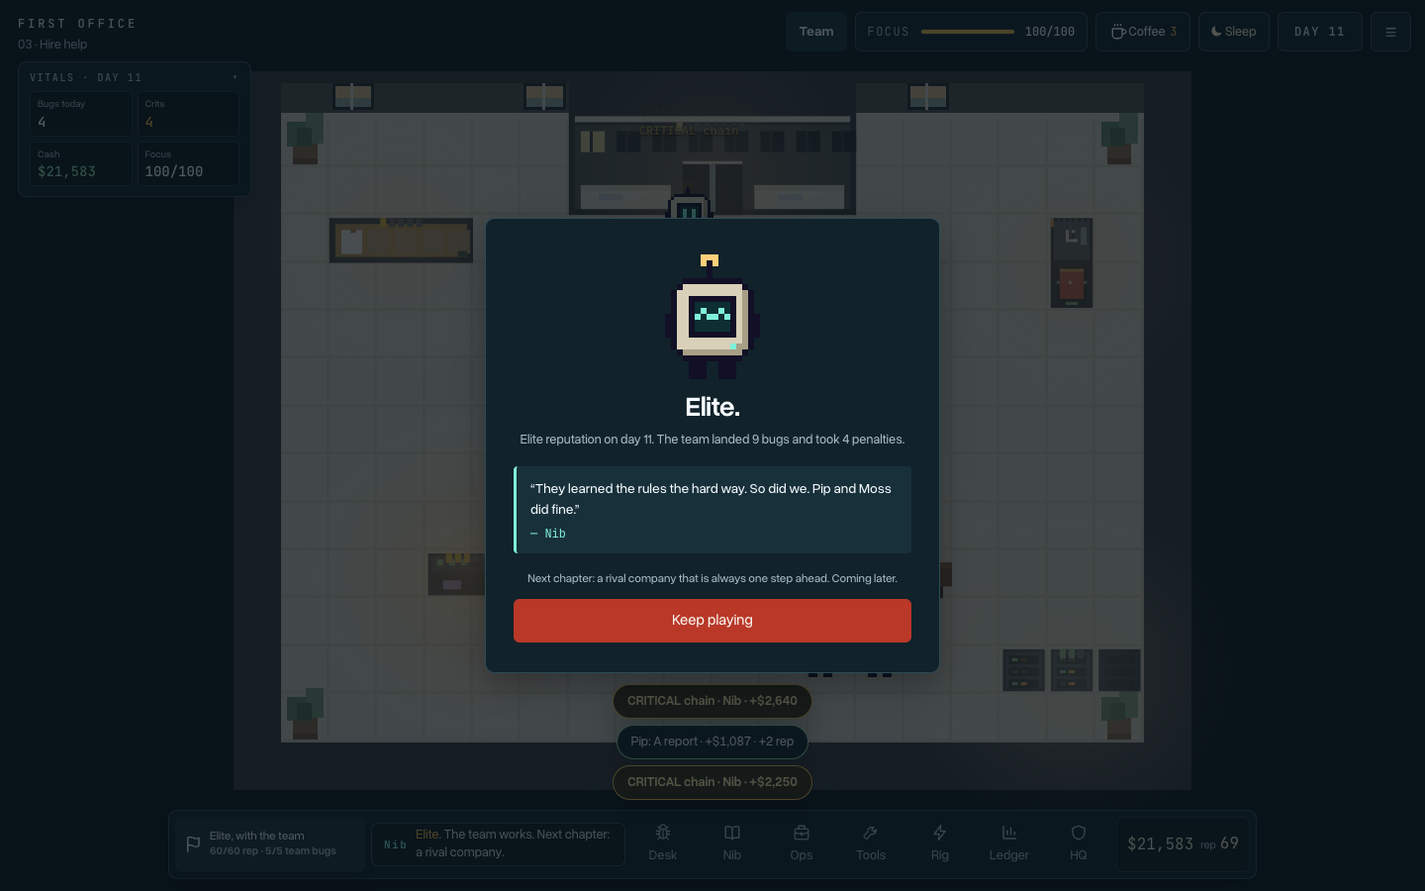
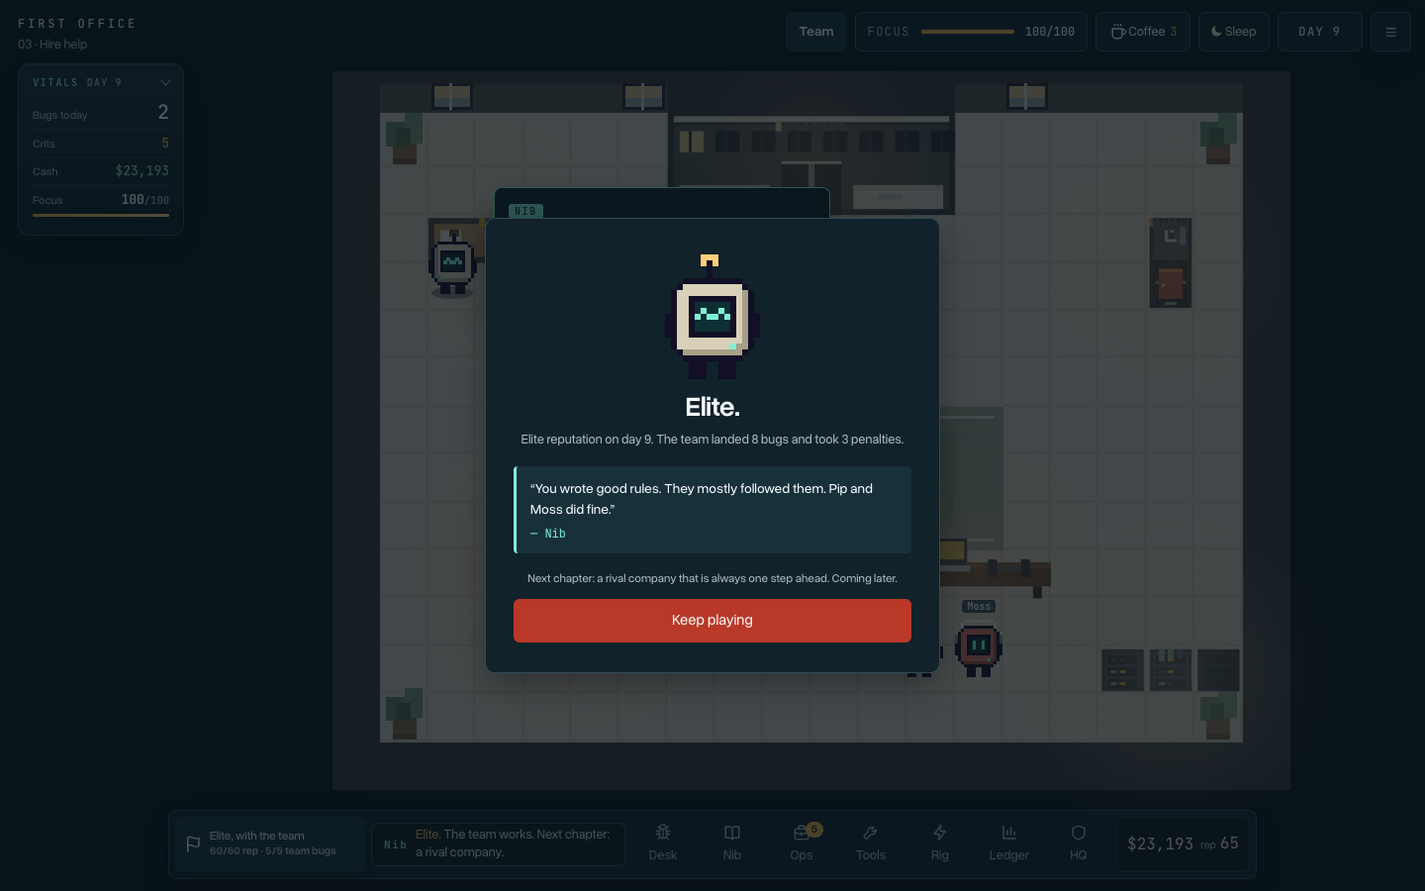
- game.js: vitals box rebuilt as a slim label/value list (no nested cards); built once and updated in place - game.js: numbers count up and glow when they rise; detail pane rebuilt only when its data changes - game.js: room keeps a left margin for the box on screens 900px+ (vitalsGutter); open box w

diff --git a/game.js b/game.js
@@ -64,10 +64,10 @@
   function syncWorld() { world.update({ started: true, paused: false, won: s.won, speed: 1, movementSpeed: 1, compute: s.gpu }, null, false, blocked(), worldView()); }
   function layout() {
     const dock = document.querySelector('.dock-shell').getBoundingClientRect(), hud = document.querySelector('.hud').getBoundingClientRect();
-    world.setInsets(punchIns({ top: Math.max(64, hud.bottom + 8), bottom: innerHeight - dock.top + 12, hud: { left: hud.left, bottom: hud.bottom + 8 } })); // #13: scaled while the office punches in
+    world.setInsets(punchIns({ top: Math.max(64, hud.bottom + 8), bottom: innerHeight - dock.top + 12, left: vitalsGutter(), hud: { left: hud.left, bottom: hud.bottom + 8 } })); // #13: scaled while the office punches in
     document.documentElement.style.setProperty('--dock-top', Math.round(innerHeight - dock.top) + 'px');
     world.setTouch(matchMedia('(pointer: coarse)').matches || innerWidth < 650);
-    requestAnimationFrame(placeLamps); // #12: the room moved; its lamps follow once world.js has refit it
+    requestAnimationFrame(() => { placeLamps(); fitVitals(); }); // #12: the room moved; its lamps (and the vitals box) follow once world.js has refit it
   }
 
   // Nib docks to an open window, and stays docked while it shrinks away. Out of sight (a window over the office, or Team),
@@ -461,7 +461,7 @@
   // world.js turns its insets (CSS px) into canvas px by the canvas's on-screen width, so a zoomed canvas would refit the
   // room inside it. The insets scale with the zoom instead: punchK is the scale world.js sees on its next draw.
   let punchFx = null, punchK = 1, punchBase = null, lastPay = null;
-  function punchIns(v) { punchBase = v; const k = punchK; return k === 1 ? v : { top: v.top * k, bottom: v.bottom * k, hud: v.hud && { left: v.hud.left * k, bottom: v.hud.bottom * k } }; }
+  function punchIns(v) { punchBase = v; const k = punchK; return k === 1 ? v : { top: v.top * k, bottom: v.bottom * k, left: (v.left || 0) * k, hud: v.hud && { left: v.hud.left * k, bottom: v.hud.bottom * k } }; }
   function punchFor(r, station, who, key) {
     lastPay = { station, who, t: performance.now() };
     if (!r.won && (r.crit || station === 'hq')) punch(station, who, key, true); // HQ only pays chains: always critical. The goal punches in goal().
@@ -739,47 +739,84 @@
       <ul class="shoplist">${tiers}</ul>`;
   }
   // ---------- vitals box ----------
-  // A small box under the chapter title: today's numbers, cash and focus. A click opens lifetime totals and charts.
-  // "Today" is the current game day, measured against the snapshot engine.sleep() saves at the end of each day.
+  // A slim list under the chapter title: bugs today, crits, cash and focus. A click (or V) opens today's and lifetime
+  // totals and per-day charts. "Today" is the current game day, measured against the snapshot engine.sleep() saves.
+  // The room keeps a margin clear for the box (layout → vitalsGutter); on screens too narrow for that it overlaps.
+  const VIT = { w: 168, left: 18, gap: 14, openW: 340 };
+  const vitalsGutter = () => s.seen.job && innerWidth >= 900 ? VIT.left + VIT.w + VIT.gap : 0;
   function dayRows() {
-    const rows = (s.days || []).slice(), now = { day: s.day, bugs: s.bugs, crits: s.crits, cash: s.cash, rep: s.rep, earned: s.stats.earned };
-    rows.push(now);
-    // A save from before snapshots existed has no baseline for its early days; start the charts where the data starts.
+    const rows = (s.days || []).slice();
+    rows.push({ day: s.day, bugs: s.bugs, crits: s.crits, cash: s.cash, rep: s.rep, earned: s.stats.earned });
+    // A save from before snapshots existed has no baseline for its early days; the charts start where the data starts.
     return rows.map((r, i) => { const p = i ? rows[i - 1] : r.day === 1 ? { bugs: 0, crits: 0, earned: 0 } : null; return { ...r, newBugs: p ? r.bugs - p.bugs : null, newCrits: p ? r.crits - p.crits : null, made: p ? r.earned - p.earned : null }; });
   }
+  // Numbers count to their new value (450 ms, ease-out) and glow briefly when they go up.
+  function countTo(el, v, fmt) {
+    if (v == null) { el.textContent = '—'; el._v = null; return; }
+    const from = el._v; el._v = v;
+    if (from == null || from === v || reduced || document.hidden) { el.textContent = fmt(v); return; }
+    if (v > from) { el.classList.remove('up'); void el.offsetWidth; el.classList.add('up'); }
+    const t0 = performance.now(), step = now => {
+      if (el._v !== v) return; // retargeted
+      const k = Math.min(1, (now - t0) / 450), e = 1 - Math.pow(1 - k, 3);
+      el.textContent = fmt(Math.round(from + (v - from) * e)); if (k < 1) requestAnimationFrame(step);
+    };
+    requestAnimationFrame(step);
+  }
   function bars(rows, key, label) {
-    const pts = rows.filter(r => r[key] != null).slice(-14), max = Math.max(1, ...pts.map(r => r[key])), W = 280, H = 70, bw = W / Math.max(pts.length, 7);
-    const b = pts.map((r, i) => { const h = Math.max(r[key] ? 3 : 1, r[key] / max * (H - 16)); return `<rect x="${i * bw + 2}" y="${H - 12 - h}" width="${bw - 4}" height="${h}" rx="1.5" class="${r.day === s.day ? 'now' : ''}"><title>Day ${r.day}: ${r[key]}</title></rect><text x="${i * bw + bw / 2}" y="${H - 1}">${r.day}</text>`; }).join('');
-    return `<figure class="vchart"><figcaption>${label} <span>max ${max}</span></figcaption><svg viewBox="0 0 ${W} ${H}" role="img" aria-label="${label}">${b}</svg></figure>`;
+    const pts = rows.filter(r => r[key] != null).slice(-14), max = Math.max(1, ...pts.map(r => r[key])), W = 300, H = 74, n = Math.max(pts.length, 7), bw = W / n;
+    const b = pts.map((r, i) => { const h = Math.max(r[key] ? 3 : 1.5, r[key] / max * (H - 18)); return `<g style="--i:${i}"><rect x="${i * bw + 3}" y="${H - 13 - h}" width="${bw - 6}" height="${h}" rx="2" class="${r.day === s.day ? 'now' : ''}"><title>Day ${r.day}: ${r[key]}</title></rect><text x="${i * bw + bw / 2}" y="${H - 1}">${r.day}</text></g>`; }).join('');
+    return `<figure class="vchart"><figcaption>${label}<span>best ${max}</span></figcaption><svg viewBox="0 0 ${W} ${H}" role="img" aria-label="${label}">${b}</svg></figure>`;
   }
   function line(rows, key, label, fmt) {
-    const pts = rows.slice(-14), vals = pts.map(r => r[key]), max = Math.max(1, ...vals), W = 280, H = 70, x = i => pts.length > 1 ? 4 + i * (W - 8) / (pts.length - 1) : W / 2, y = v => H - 14 - v / max * (H - 22);
-    const d = pts.map((r, i) => (i ? 'L' : 'M') + x(i).toFixed(1) + ' ' + y(r[key]).toFixed(1)).join(' ');
-    const dots = pts.map((r, i) => `<circle cx="${x(i)}" cy="${y(r[key])}" r="${r.day === s.day ? 3 : 2}" class="${r.day === s.day ? 'now' : ''}"><title>Day ${r.day}: ${fmt(r[key])}</title></circle><text x="${x(i)}" y="${H - 1}">${r.day}</text>`).join('');
-    return `<figure class="vchart"><figcaption>${label} <span>${fmt(vals[vals.length - 1])}</span></figcaption><svg viewBox="0 0 ${W} ${H}" role="img" aria-label="${label}"><path d="${d}"/>${dots}</svg></figure>`;
+    const pts = rows.slice(-14), vals = pts.map(r => r[key]), max = Math.max(1, ...vals), W = 300, H = 74;
+    const x = i => pts.length > 1 ? 6 + i * (W - 12) / (pts.length - 1) : W / 2, y = v => H - 15 - v / max * (H - 24);
+    const xy = pts.map((r, i) => [x(i).toFixed(1), y(r[key]).toFixed(1)]), d = xy.map((p, i) => (i ? 'L' : 'M') + p.join(' ')).join(' ');
+    const area = xy.length > 1 ? `<path class="area" d="${d} L${xy[xy.length - 1][0]} ${H - 13} L${xy[0][0]} ${H - 13} Z"/>` : '';
+    const dots = pts.map((r, i) => `<circle cx="${xy[i][0]}" cy="${xy[i][1]}" r="${r.day === s.day ? 3.2 : 2}" class="${r.day === s.day ? 'now' : ''}" style="--i:${i}"><title>Day ${r.day}: ${fmt(r[key])}</title></circle><text x="${xy[i][0]}" y="${H - 1}">${r.day}</text>`).join('');
+    return `<figure class="vchart"><figcaption>${label}<span>${fmt(vals[vals.length - 1])}</span></figcaption><svg viewBox="0 0 ${W} ${H}" role="img" aria-label="${label}">${area}<path class="ln" pathLength="1" d="${d}"/>${dots}</svg></figure>`;
   }
   function vitals() {
-    const el = $('vitals'); el.hidden = !s.seen.job; if (el.hidden) return;
-    const rows = dayRows(), t = rows[rows.length - 1], open = el.classList.contains('open'), mf = E.maxFocus(s);
-    const cell = (k, v, cls) => `<div class="v ${cls || ''}"><span>${k}</span><b>${v}</b></div>`;
-    const today = `<div class="vgrid">${cell('Bugs today', t.newBugs ?? '—')}${cell('Crits', s.crits, s.crits ? 'crit' : '')}${cell('Cash', money(s.cash), 'cash')}${cell('Focus', s.focus + '/' + mf, s.focus < mf * 0.25 ? 'low' : '')}</div>`;
+    const el = $('vitals'), wasHidden = el.hidden; el.hidden = !s.seen.job; if (el.hidden) return;
+    if (wasHidden) layout(); // the room makes way for the box the first time it shows
+    if (!el.firstChild) {
+      el.innerHTML = `<header><span>Vitals</span><span class="vday"></span><i class="chev" aria-hidden="true"></i></header>
+        <dl class="vq"><div><dt>Bugs today</dt><dd data-k="today" class="big"></dd></div><div><dt>Crits</dt><dd data-k="crits"></dd></div>
+          <div><dt>Cash</dt><dd data-k="cash" class="cash"></dd></div><div class="vfocus"><dt>Focus</dt><dd><b data-k="focus"></b><small data-k="fmax"></small></dd><span class="vbar"><i></i></span></div></dl>
+        <div class="vx"><div class="vx-in"></div></div>`;
+    }
+    const rows = dayRows(), t = rows[rows.length - 1], open = el.classList.contains('open'), mf = E.maxFocus(s), q = k => el.querySelector(`[data-k="${k}"]`);
     el.setAttribute('aria-expanded', open);
-    if (!open) { el.innerHTML = `<header>Vitals · Day ${s.day}<i>▾</i></header>${today}`; return; }
-    const st = s.stats, tier = E.tier(s), sent = st.proven + st.raw;
-    el.innerHTML = `<header>Vitals · Day ${s.day}<i>▴</i></header>${today}
-      <h4>Today</h4><div class="vgrid">${cell('Earned', t.made == null ? '—' : money(t.made))}${cell('Crits today', t.newCrits ?? '—')}${cell('Coffee left', s.cups)}${cell('Rep · ' + tier.name, s.rep)}</div>
-      <h4>Lifetime</h4><div class="vgrid">${cell('Bugs', s.bugs)}${cell('Crits', s.crits, s.crits ? 'crit' : '')}${cell('Earned', money(st.earned), 'cash')}${cell('Days', s.day)}
-        ${cell('By you', st.manual)}${cell('By ' + esc(s.nib), st.nib)}${cell('By team', st.agent || 0)}${cell('False alarms', st.falseSubmits, st.falseSubmits ? 'low' : '')}</div>
-      ${sent ? `<p class="vnote">${st.proven} proven before sending, ${st.raw} sent raw.</p>` : ''}
-      ${bars(rows, 'newBugs', 'Bugs per day')}${line(rows, 'cash', 'Cash at end of day', money)}${line(rows, 'rep', 'Reputation', String)}`;
+    el.querySelector('.vday').textContent = 'Day ' + s.day;
+    countTo(q('today'), t.newBugs, String); countTo(q('crits'), s.crits, String); countTo(q('cash'), s.cash, money); countTo(q('focus'), s.focus, String);
+    q('fmax').textContent = '/' + mf; q('crits').classList.toggle('crit', s.crits > 0);
+    el.querySelector('.vfocus').classList.toggle('low', s.focus < mf * 0.25); el.querySelector('.vbar i').style.width = Math.round(s.focus / mf * 100) + '%';
+    fitVitals();
+    // The detail pane is rebuilt only when its numbers change, so its entrance animations don't replay on every render().
+    const st = s.stats, tier = E.tier(s), key = open && JSON.stringify([rows, st, s.cups, s.nib]);
+    const inner = el.querySelector('.vx-in'); if (!open || inner.dataset.key === key) return; inner.dataset.key = key;
+    const row = (k, v, cls) => `<div><dt>${k}</dt><dd class="${cls || ''}">${v}</dd></div>`;
+    inner.innerHTML = `<section style="--i:0"><h4>Today</h4><dl>${row('Earned', t.made == null ? '—' : money(t.made), 'cash')}${row('Crits', t.newCrits ?? '—')}${row('Coffee left', s.cups)}${row('Reputation', s.rep + ' <small>' + esc(tier.name) + '</small>')}</dl></section>
+      <section style="--i:1"><h4>Lifetime</h4><dl>${row('Bugs', s.bugs)}${row('Crits', s.crits, s.crits ? 'crit' : '')}${row('Earned', money(st.earned), 'cash')}${row('Days', s.day)}
+        ${row('By you', st.manual)}${row('By ' + esc(s.nib), st.nib)}${row('By team', st.agent || 0)}${row('False alarms', st.falseSubmits, st.falseSubmits ? 'bad' : '')}</dl>
+        ${st.proven + st.raw ? `<p class="vnote">${st.proven} proven before sending · ${st.raw} sent raw</p>` : ''}</section>
+      <section style="--i:2">${bars(rows, 'newBugs', 'Bugs per day')}</section><section style="--i:3">${line(rows, 'cash', 'Cash, end of day', money)}</section><section style="--i:4">${line(rows, 'rep', 'Reputation', String)}</section>`;
+  }
+  // Closed, the box sits in the margin the room keeps for it. Open, it widens into the margin if that's wide enough,
+  // otherwise it floats over the room's edge until closed.
+  function fitVitals() {
+    const el = $('vitals'); if (el.hidden) return;
+    const avail = world.roomRect().left - document.querySelector('.playfield').getBoundingClientRect().left - VIT.left - VIT.gap;
+    const open = el.classList.contains('open'), w = open ? Math.max(VIT.openW, Math.min(400, Math.floor(avail))) : VIT.w;
+    el.classList.toggle('over', w > avail); el.style.setProperty('--vw', w + 'px');
   }
   function toggleVitals(force) {
     const el = $('vitals'); if (el.hidden) return;
     el.classList.toggle('open', force ?? !el.classList.contains('open')); vitals();
   }
-  $('vitals').addEventListener('click', () => toggleVitals());
+  $('vitals').addEventListener('click', e => { if (!$('vitals').classList.contains('open') || e.target.closest('header')) toggleVitals(); });
   $('vitals').addEventListener('keydown', e => { if (e.key === 'Enter' || e.key === ' ') { e.preventDefault(); toggleVitals(); } else if (e.key === 'Escape') { toggleVitals(false); $('world').focus({ preventScroll: true }); } });
-  document.addEventListener('pointerdown', e => { if (!e.target.closest('#vitals')) $('vitals').classList.contains('open') && toggleVitals(false); });
+  document.addEventListener('pointerdown', e => { if (!e.target.closest('#vitals') && $('vitals').classList.contains('open')) toggleVitals(false); });
 
   function ledgerView() {
     const tier = E.tier(s), next = E.nextTier(s);

diff --git a/style.css b/style.css
@@ -405,26 +405,65 @@ body:has(#panel-dialog[open]) .playfield::after{content:"";position:absolute;ins
 #panel-dialog .hq .opts,#panel-dialog .chain .opts{grid-template-columns:1fr}
 @media (max-width:600px){#panel-dialog .sec .opts{grid-template-columns:1fr}}
 
-/* Vitals box: top left under the chapter title. Compact by default; a click opens lifetime totals and charts (game.js vitals). */
-.vitals{position:absolute;left:18px;top:62px;z-index:6;width:236px;padding:9px 11px 10px;background:var(--paper);border:1px solid var(--line-2);border-radius:8px;color:var(--ink-2);font-size:12px;cursor:pointer;box-shadow:0 6px 18px rgba(0,0,0,.25);transition:width .18s ease-out,border-color .15s}
-.vitals:hover,.vitals:focus-visible{border-color:var(--nib);outline:none}
-.vitals.open{width:min(400px,calc(100vw - 36px));max-height:calc(100% - 180px);overflow:auto;cursor:default}
-.vitals header{display:flex;justify-content:space-between;margin-bottom:7px;font:600 10px var(--mono);letter-spacing:.16em;text-transform:uppercase;color:var(--muted)}
-.vitals header i{font-style:normal;color:var(--nib)}
-.vitals h4{margin:12px 0 6px;font:600 10px var(--mono);letter-spacing:.16em;text-transform:uppercase;color:var(--muted)}
-.vgrid{display:grid;grid-template-columns:1fr 1fr;gap:5px}
-.vgrid .v{display:grid;gap:1px;padding:5px 7px;background:var(--ground);border:1px solid var(--line);border-radius:5px;min-width:0}
-.vgrid .v span{font-size:10px;color:var(--muted);white-space:nowrap;overflow:hidden;text-overflow:ellipsis}
-.vgrid .v b{font:500 14px var(--mono);color:var(--ink);white-space:nowrap}
-.vgrid .v.cash b{color:var(--good)}.vgrid .v.crit b{color:var(--amber)}.vgrid .v.low b{color:var(--danger-ink)}
-.vitals.open .vgrid{grid-template-columns:repeat(4,1fr);gap:4px}.vitals.open .vgrid .v{align-content:space-between}.vitals.open .vgrid .v span{white-space:normal;line-height:1.2}.vitals.open .vgrid .v b{font-size:13px}
+/* Vitals box (game.js vitals): a slim list in the margin the room keeps clear on the left. No cards inside the card:
+   rows are label/value pairs on hairlines. Open, it grows (grid-rows 0fr → 1fr), its sections rise in one by one,
+   bars grow and lines draw. Numbers count up and glow when they rise. */
+.vitals{position:absolute;left:18px;top:64px;z-index:6;width:var(--vw,168px);padding:12px 14px 13px;box-sizing:border-box;
+  background:linear-gradient(180deg,rgba(24,48,58,.92),rgba(14,30,38,.92));border:1px solid var(--line-2);border-radius:12px;color:var(--ink-2);font-size:12px;cursor:pointer;
+  box-shadow:0 10px 28px rgba(0,0,0,.28),inset 0 1px 0 rgba(255,255,255,.04);backdrop-filter:blur(6px);
+  transition:width .32s cubic-bezier(.2,.8,.2,1),border-color .2s,box-shadow .2s,transform .12s ease-out}
+.vitals:not(.open):hover{border-color:rgba(127,240,216,.55);box-shadow:0 12px 30px rgba(0,0,0,.32),0 0 0 3px rgba(127,240,216,.07)}
+.vitals:not(.open):active{transform:scale(.98)}
+.vitals:focus-visible{outline:none;border-color:var(--nib)}
+.vitals.open{cursor:default;max-height:calc(100% - 64px - var(--dock-top,90px) - 12px);overflow:auto;scrollbar-width:thin;border-color:rgba(127,240,216,.4)}
+.vitals.over.open{box-shadow:0 18px 44px rgba(0,0,0,.5)}
+.vitals header{display:flex;align-items:center;gap:8px;margin-bottom:8px;font:600 10px var(--mono);letter-spacing:.18em;text-transform:uppercase;color:var(--muted);cursor:pointer}
+.vitals header span:first-child{color:var(--nib)}
+.vitals .vday{flex:1;letter-spacing:.12em}
+.vitals .chev{width:7px;height:7px;border-right:1.5px solid currentColor;border-bottom:1.5px solid currentColor;transform:translateY(-2px) rotate(45deg);transition:transform .3s cubic-bezier(.2,.8,.2,1)}
+.vitals.open .chev{transform:translateY(1px) rotate(-135deg)}
+.vitals dl{margin:0}
+.vitals dl>div{display:flex;align-items:baseline;justify-content:space-between;gap:10px;padding:5px 0;border-top:1px solid rgba(46,75,88,.55)}
+.vitals dl>div:first-child{border-top:0}
+.vitals dt{color:var(--muted);font-size:11.5px;white-space:nowrap}
+.vitals dd{margin:0;font:500 13px var(--mono);color:var(--ink);white-space:nowrap;border-radius:4px;transition:color .3s}
+.vitals dd small{font-size:10.5px;color:var(--muted)}
+.vitals dd.big{font-size:20px;line-height:1;color:var(--ink)}
+.vitals .cash{color:var(--good)}.vitals .crit{color:var(--amber)}.vitals .bad{color:var(--danger-ink)}
+.vitals .up{animation:v-up .7s ease-out}
+@keyframes v-up{0%{text-shadow:0 0 0 transparent}25%{text-shadow:0 0 10px rgba(127,240,216,.75);color:#d9fff6}100%{text-shadow:0 0 0 transparent}}
+.vitals .vfocus{flex-wrap:wrap;row-gap:5px}
+.vitals .vfocus.low dd b{color:var(--danger-ink)}
+.vitals .vbar{flex-basis:100%;height:3px;border-radius:2px;background:rgba(46,75,88,.8);overflow:hidden}
+.vitals .vbar i{display:block;height:100%;border-radius:inherit;background:linear-gradient(90deg,var(--amber),#f3d27c);transition:width .5s cubic-bezier(.2,.8,.2,1)}
+.vitals .vfocus.low .vbar i{background:var(--danger-ink)}
+/* Detail pane */
+.vx{display:grid;grid-template-rows:0fr;transition:grid-template-rows .36s cubic-bezier(.2,.8,.2,1)}
+.vitals.open .vx{grid-template-rows:1fr}
+.vx-in{min-height:0;overflow:hidden}
+.vx section{opacity:0;transform:translateY(6px)}
+.vitals.open .vx section{animation:v-rise .42s cubic-bezier(.2,.8,.2,1) both;animation-delay:calc(80ms + var(--i) * 55ms)}
+@keyframes v-rise{from{opacity:0;transform:translateY(8px)}to{opacity:1;transform:none}}
+.vitals h4{margin:14px 0 4px;font:600 9.5px var(--mono);letter-spacing:.18em;text-transform:uppercase;color:var(--muted)}
+.vx dl{display:grid;grid-template-columns:1fr 1fr;column-gap:18px}
+.vx dl>div:nth-child(2){border-top:0}
 .vnote{margin:6px 0 0;font-size:11px;color:var(--muted)}
-.vchart{margin:12px 0 0}
-.vchart figcaption{display:flex;justify-content:space-between;margin-bottom:4px;font-size:11px;color:var(--ink-2)}
-.vchart figcaption span{font-family:var(--mono);color:var(--muted)}
+.vchart{margin:16px 0 0}
+.vchart figcaption{display:flex;justify-content:space-between;margin-bottom:6px;font-size:11.5px;color:var(--ink-2)}
+.vchart figcaption span{font:11px var(--mono);color:var(--muted)}
 .vchart svg{display:block;width:100%;height:auto;overflow:visible}
-.vchart rect{fill:var(--line-2)}.vchart rect.now{fill:var(--nib)}
-.vchart path{fill:none;stroke:var(--nib);stroke-width:1.5}
-.vchart circle{fill:var(--paper);stroke:var(--nib);stroke-width:1.2}.vchart circle.now{fill:var(--nib)}
+.vchart rect{fill:rgba(127,240,216,.28);transform-box:fill-box;transform-origin:bottom}
+.vchart rect.now{fill:var(--nib)}
+.vitals.open .vchart rect{animation:v-grow .5s cubic-bezier(.2,.9,.25,1.15) both;animation-delay:calc(220ms + var(--i) * 35ms)}
+@keyframes v-grow{from{transform:scaleY(0)}to{transform:scaleY(1)}}
+.vchart .ln{fill:none;stroke:var(--nib);stroke-width:1.6;stroke-linejoin:round;stroke-linecap:round;stroke-dasharray:1;stroke-dashoffset:0}
+.vitals.open .vchart .ln{animation:v-draw .8s cubic-bezier(.4,0,.2,1) .28s both}
+@keyframes v-draw{from{stroke-dashoffset:1}to{stroke-dashoffset:0}}
+.vchart .area{fill:rgba(127,240,216,.08)}
+.vitals.open .vchart .area{animation:v-fade .6s ease-out .5s both}
+@keyframes v-fade{from{opacity:0}to{opacity:1}}
+.vchart circle{fill:#10242c;stroke:var(--nib);stroke-width:1.2}.vchart circle.now{fill:var(--nib)}
+.vitals.open .vchart circle{animation:v-fade .3s ease-out both;animation-delay:calc(300ms + var(--i) * 50ms)}
 .vchart text{font:8px var(--mono);fill:var(--muted);text-anchor:middle}
-@media (max-width:700px){.vitals{top:12px;left:12px;width:200px}}
+@media (max-width:700px){.vitals{top:12px;left:12px}}
+@media (prefers-reduced-motion:reduce){.vitals,.vx,.vitals .chev,.vitals .vbar i{transition:none}.vitals.open .vx section,.vitals.open .vchart *{animation:none!important;opacity:1;transform:none}.vitals .up{animation:none}}

diff --git a/original/world.js b/original/world.js
@@ -300,11 +300,12 @@
       var k = Math.max(0.05, Math.min((x1 - x0) / R.width, (bot - y0) / R.height));
       return { s: k, ox: Math.round(x0 + (x1 - x0 - R.width * k) / 2), oy: Math.round(y0 + (bot - y0 - R.height * k) / 2) };
     }
-    var a = fit(MX, w - MX, M), hud = insets.hud;
+    // insets.left keeps a margin clear on the left (the page's vitals box); the room centres in what's left.
+    var L = MX + (insets.left || 0), a = fit(L, w - MX, M), hud = insets.hud;
     if (!hud || a.ox + R.width * a.s <= hud.left - M || a.oy >= hud.bottom + M) return a;
-    var x1 = hud.left - M, below = fit(MX, w - MX, Math.max(M, insets.top + M)), ox = Math.round(x1 - R.width * a.s);
-    if (ox >= MX && (a.ox - ox <= w * 0.06 || a.s > below.s * 1.15)) return { s: a.s, ox: ox, oy: a.oy };
-    var left = fit(MX, x1, M);
+    var x1 = hud.left - M, below = fit(L, w - MX, Math.max(M, insets.top + M)), ox = Math.round(x1 - R.width * a.s);
+    if (ox >= L && (a.ox - ox <= w * 0.06 || a.s > below.s * 1.15)) return { s: a.s, ox: ox, oy: a.oy };
+    var left = fit(L, x1, M);
     return left.s > below.s * 1.15 ? left : below;
   }
   function movementSpeed(v) { return typeof v === 'number' && SPEEDS.indexOf(v) >= 0 ? v : 1; }
@@ -749,7 +750,7 @@
     // Drawing, taps and guide anchors all use it.
     function fitView(R) {
       var rc = canvas.getBoundingClientRect(), cw = canvas.width / D, k = rc.width ? cw / rc.width : 1, i = insets;
-      var v = roomView(cw, canvas.height / D, R.id, i && { top: i.top * k, bottom: i.bottom * k, hud: i.hud && { left: i.hud.left * k, bottom: i.hud.bottom * k } });
+      var v = roomView(cw, canvas.height / D, R.id, i && { top: i.top * k, bottom: i.bottom * k, left: i.left * k, hud: i.hud && { left: i.hud.left * k, bottom: i.hud.bottom * k } });
       if (D === 1) return v;
       // On dense screens the art gets whole device pixels per art pixel when that costs under 10% of its size.
       var sv = v.s * D, ox = v.ox * D, oy = v.oy * D, sn = Math.floor(sv);
@@ -1141,7 +1142,7 @@
       // below it and the space the dock and status line take at the bottom. Null fits the whole canvas.
       setInsets: function (v) {
         function n(x) { x = +x; return isFinite(x) ? Math.max(0, x) : 0; }
-        insets = v && typeof v === 'object' ? { top: n(v.top), bottom: n(v.bottom), hud: v.hud ? { left: n(v.hud.left), bottom: n(v.hud.bottom) } : null } : null;
+        insets = v && typeof v === 'object' ? { top: n(v.top), bottom: n(v.bottom), left: n(v.left), hud: v.hud ? { left: n(v.hud.left), bottom: n(v.hud.bottom) } : null } : null;
       },
       // Read-only: where the current room is drawn, in viewport px.
       roomRect: function () {

diff --git a/README.md b/README.md
@@ -92,7 +92,7 @@ The founder doesn't wind up: you control it, so it reacts on the frame you press
 | `stage3/harness.js` | Agents: brief parsing, sanitize/preflight, job routines, tools, stop conditions, movement, narration |
 | `stage3/crew.js`, `stage3/crew.css` | Agent sprites, the Office/Agents switch, the Codex-style Agents view, AGENTS.md |
 
-**Vitals box** (top left, or V): bugs today, crits, cash and focus; click for today's and lifetime totals and per-day charts. "Today" is the current game day, measured against the end-of-day snapshot `engine.sleep()` adds to `s.days` (last 60 days).
+**Vitals box** (top left, or V): bugs today, crits, cash and focus; click for today's and lifetime totals and per-day charts. On screens 900px and wider the room keeps a left margin clear for it (`world.setInsets({left})`); open, it floats over the room only if the margin is too narrow. "Today" is the current game day, measured against the end-of-day snapshot `engine.sleep()` adds to `s.days` (last 60 days).
 
 Saves (localStorage on this address): `first-office-nib-v1` (Stage 1 memory), `first-office-game-v1` (office), `first-office-crew-v1` (agents and rules).
 
